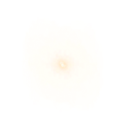
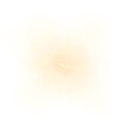
fix some canvas stuff

Changed region(s): [[0.2812, 0.3438, 0.6875, 0.6562]]

diff --git a/client/js/ui/canvas/CanvasInputVector.js b/client/js/ui/canvas/CanvasInputVector.js
@@ -160,16 +160,41 @@ define([
         };
 
 
+        var drawRadialRaster = function(ctx, raster) {
+
+            ctx.strokeStyle = randomizedColor(raster.color, raster.flicker);
+
+            for (var i = 0; i < size.height/2; i++) {
+
+                if (Math.random() < raster.probability) {
+
+                    ctx.lineWidth = 6;
+                    ctx.beginPath();
+                    ctx.arc(
+                        size.width*0.5,
+                        size.height*0.5,
+                        Math.sqrt(raster.width*i)+i * 1.2,
+                        Math.PI*Math.random() + Math.PI * 0.6 * Math.random(),
+                        Math.random() * Math.PI + 0.6 * Math.random()
+                    );
+                    ctx.stroke();
+                    i++
+                }
+            }
+        };
+
         CanvasInputVector.drawInputVectors = function(gamePieces, ctx, camera, confData) {
 
             pos = confData.pos;
             size = confData.size;
 
 
+            drawRadialRaster(ctx, confData.raster);
+
             ctx.strokeStyle = toRgba([0.6,0.7,0.9, 1]);
             ctx.lineWidth = 1;
 
-        //    drawElementBorders(ctx, confData.elementBorder);
+            drawElementBorders(ctx, confData.elementBorder);
         //    drawWorldBorders(ctx, confData.worldSection);
         //    drawRaster(ctx, confData.raster);
 
@@ -235,7 +260,7 @@ define([
                     tempRect.height = 2*seed;
                     
                     if (confData.playerNames.on && !gamePieces[index].isOwnPlayer) {
-
+/*
                         var controls = gamePieces[index].piece.readServerModuleState('inputControls');
 
                         for (var i = 0; i < controls.length; i++) {
@@ -254,7 +279,7 @@ define([
                             CustomGraphCallbacks.addPointToGraph(ctx, tempRect.left + addy  , tempRect.top + addx);
                             ctx.stroke();
                         }
-
+*/
                     } else {
 
                         var controls = gamePieces[index].piece.readServerModuleState('inputControls');
@@ -285,6 +310,10 @@ define([
                             ctx.stroke();
                        }
 
+
+                    //    if (data.color) ctx.strokeStyle = toRgba(data.color);
+
+
                         ctx.lineWidth = confData.inputRadial.width;
                         ctx.strokeStyle = randomizedColor(confData.inputRadial.color, confData.inputRadial.flicker);
 
@@ -296,6 +325,40 @@ define([
                         ctx.beginPath();
                         CustomGraphCallbacks.addPointToGraph(ctx, tempRect.left ,  tempRect.top );
                         CustomGraphCallbacks.addPointToGraph(ctx, tempRect.left + addy  , tempRect.top + addx);
+                        ctx.stroke();
+
+                        ctx.lineWidth = 5;
+                        ctx.beginPath();
+                        ctx.arc(
+                            tempRect.left,
+                            tempRect.top,
+                            radius*0.8,
+                            -angle + Math.PI * 0.4,
+                            Math.PI-angle - Math.PI * 0.4
+                        );
+                        ctx.stroke();
+
+                        ctx.strokeStyle = randomizedColor(confData.inputRadial.color, confData.inputRadial.flicker);
+                        ctx.lineWidth = 2;
+
+                        ctx.beginPath();
+                        ctx.arc(
+                            tempRect.left,
+                            tempRect.top,
+                            Math.sqrt(radius*7)+7,
+                            Math.PI-angle + Math.PI * 0.3 + Math.random()*0.2,
+                            -angle - Math.PI * 0.3 + Math.random()*0.2
+                        );
+                        ctx.stroke();
+                        ctx.lineWidth = 6;
+                        ctx.beginPath();
+                        ctx.arc(
+                            tempRect.left,
+                            tempRect.top,
+                            Math.sqrt(radius*1)+2,
+                            Math.PI-angle + Math.PI * 0.6 * Math.random(),
+                            -angle - Math.PI * 0.6 * Math.random()
+                        );
                         ctx.stroke();
 
 

diff --git a/client/js/lib/canvas_gui/CanvasCalls2d.js b/client/js/lib/canvas_gui/CanvasCalls2d.js
@@ -279,16 +279,8 @@ define([
 
 		//	this.ctx.clearRect(0, 0, this.canvas.width, this.canvas.height);
 
-            if(Math.random() < 0.3) {
-                this.attenuateColor = this.toRgba([0.1 + Math.random()*0.08, 0.57 + Math.random()*0.07, 0.46 + Math.random()*0.11, 0.14 + Math.random()*0.02])
-            }
-
-        //    if(Math.random() < 0.6) {
-                this.ctx.fillStyle = this.attenuateColor;
-                this.ctx.fillRect(0, 0, this.canvas.width, this.canvas.height);
-        //    }
-
-
+            this.ctx.fillStyle = this.attenuateColor;
+            this.ctx.fillRect(0, 0, this.canvas.width, this.canvas.height);
 		};
 
 		var t = 0;
@@ -405,13 +397,13 @@ define([
 		var resetTimeout;
 		CanvasCalls2d.prototype.callResetCallbacks = function() {
 			this.updateParentLayout();
-			this.setAttenuateColor([0, 0, 0, 1]);
+		//	this.setAttenuateColor([0, 0, 0, 1]);
 			this.attenuateGui();
 			this.renderDepthLayers = [];
 			this.drawInstructions = [];
 			var rebuild = function() {
 				this.updateParentLayout();
-				this.setAttenuateColor([0, 0, 0, 0.2]);
+		//		this.setAttenuateColor([0, 0, 0, 0.2]);
 				this.resolution = this.canvasGui2d.resolution;
 				for (var i = 0; i < this.resetCallbacks.length; i++) {
 					this.resetCallbacks[i]();

diff --git a/client/js/lib/canvas_gui/CanvasGui3D.js b/client/js/lib/canvas_gui/CanvasGui3D.js
@@ -72,7 +72,7 @@ define([
 
 			var configUpdated = function(url, config) {
 				this.handleConfigUpdate(url, config);
-                this.setBlendModeId(guiConfig.element.blendMode);
+                this.setBlendModeId(this.guiConfig.element.blendMode);
 			}.bind(this);
 
 		   PipelineAPI.subscribeToCategoryKey('setup', 'page', configUpdated);
